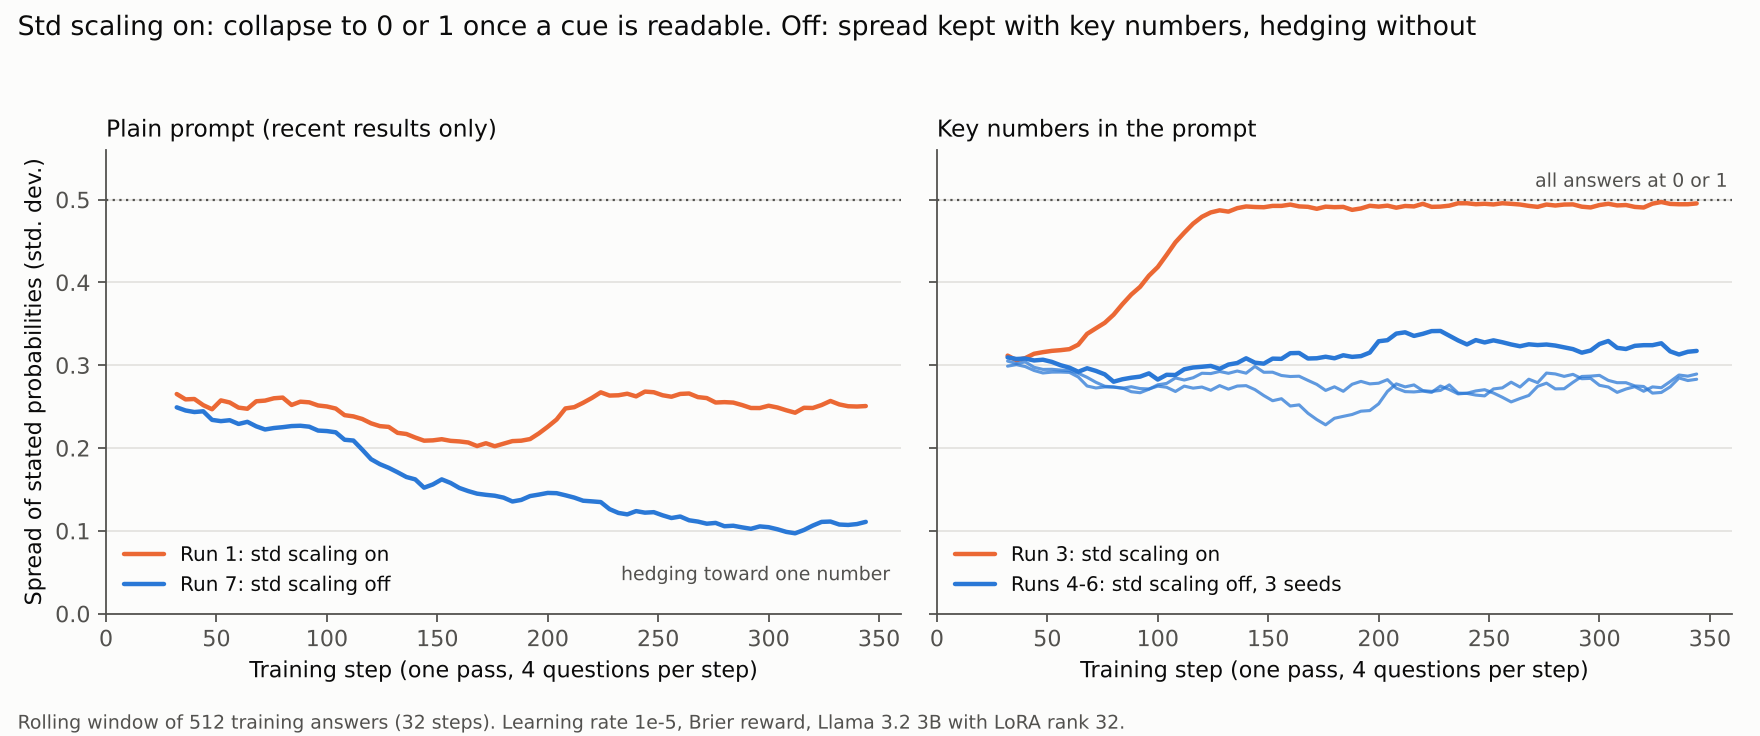
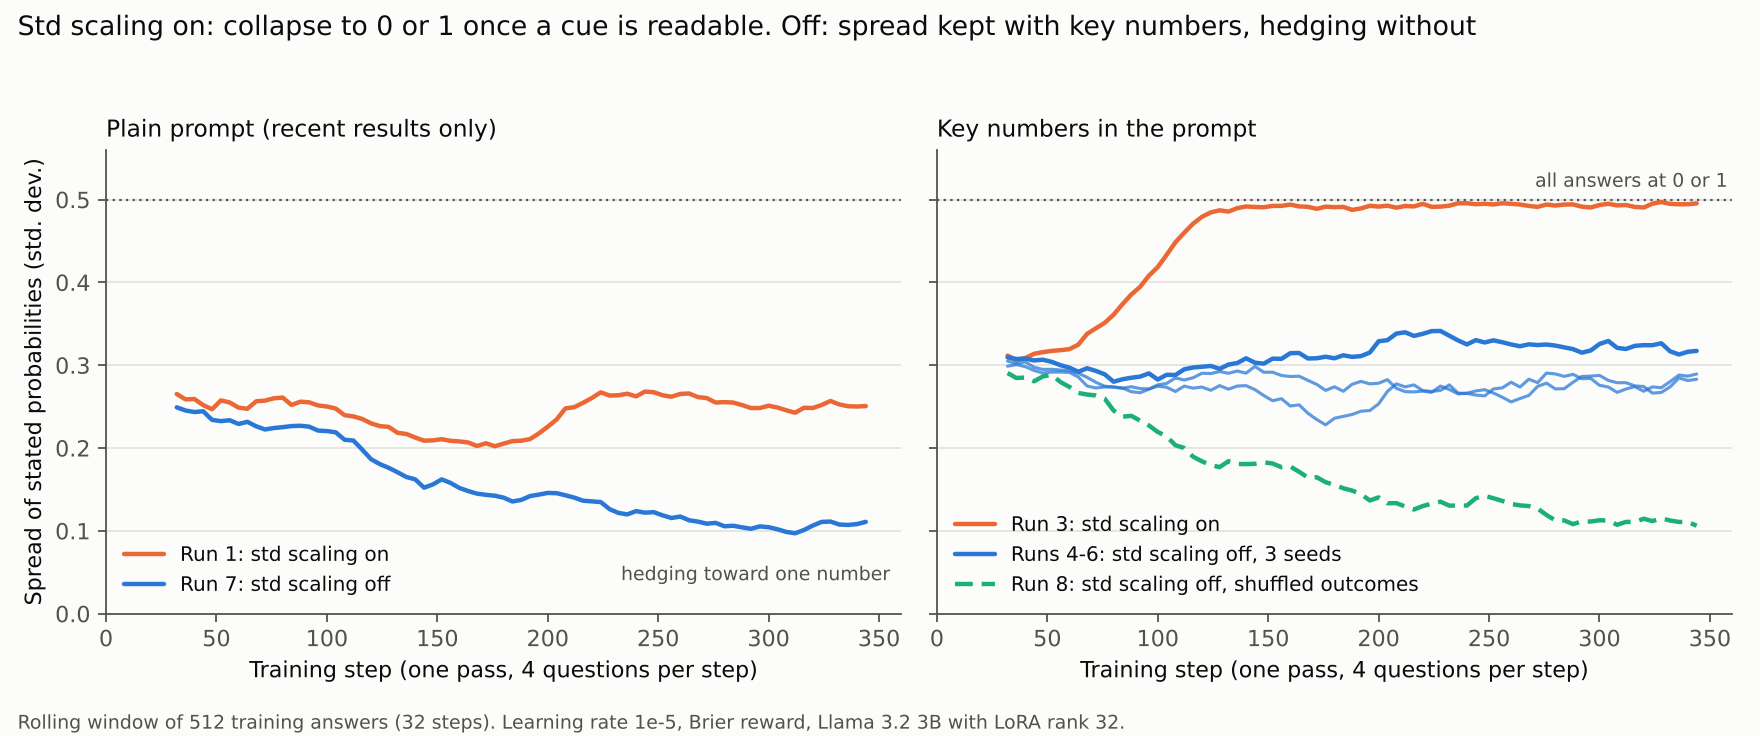
Runs 5-8 (seeds, 2x2, shuffled control) and prompt ablation notebook

diff --git a/eval/analysis/plot_spread_2x2.py b/eval/analysis/plot_spread_2x2.py
@@ -5,8 +5,8 @@ Spread = standard deviation of the stated probabilities over a rolling window of
 answers. A model that answers only 0 or 1 on balanced questions has spread 0.5; one that hedges
 toward a single number has spread near 0.
 
-Usage: python eval/analysis/plot_spread_2x2.py <run1> <run7> <run3> <run4> <run5> <run6> <out_dir>
-(each argument is that run's train_answers CSV). Writes eval/figures/spread_2x2.png and
+Usage: python eval/analysis/plot_spread_2x2.py <run1> <run7> <run3> <run4> <run5> <run6> [<run8>] <out_dir>
+(each argument is that run's train_answers CSV; run 8, the shuffled-outcome control, is optional). Writes eval/figures/spread_2x2.png and
 <out_dir>/spread_2x2.csv.
 """
 import os
@@ -20,7 +20,7 @@ import pandas as pd  # noqa: E402
 
 WINDOW, EVERY, PER_STEP = 512, 64, 16
 INK, MUTED, GRID, SURFACE = "#0b0b0b", "#52514e", "#e4e3df", "#fcfcfb"
-ON, OFF = "#eb6834", "#2a78d6"          # std scaling on / off
+ON, OFF, CONTROL = "#eb6834", "#2a78d6", "#1baf7a"   # std scaling on / off / shuffled-outcome control
 
 
 def rolling_sd(path):
@@ -34,7 +34,7 @@ def rolling_sd(path):
 
 
 def main(paths, out_dir):
-    names = ["Run 1", "Run 7", "Run 3", "Run 4", "Run 5", "Run 6"]
+    names = ["Run 1", "Run 7", "Run 3", "Run 4", "Run 5", "Run 6", "Run 8"][:len(paths)]
     data = pd.concat([rolling_sd(p).assign(run=n) for p, n in zip(paths, names)], ignore_index=True)
     data.to_csv(os.path.join(out_dir, "spread_2x2.csv"), index=False)
 
@@ -45,7 +45,8 @@ def main(paths, out_dir):
                                                       ("Run 7", OFF, "Run 7: std scaling off")]),
               ("Key numbers in the prompt", [("Run 3", ON, "Run 3: std scaling on"),
                                              ("Run 4", OFF, "Runs 4-6: std scaling off, 3 seeds"),
-                                             ("Run 5", OFF, None), ("Run 6", OFF, None)])]
+                                             ("Run 5", OFF, None), ("Run 6", OFF, None)]
+               + ([("Run 8", CONTROL, "Run 8: std scaling off, shuffled outcomes")] if "Run 8" in names else []))]
     for ax, (title, lines) in zip(axes, panels):
         ax.set_facecolor(SURFACE)
         ax.grid(axis="y", color=GRID, lw=0.8)
@@ -56,7 +57,7 @@ def main(paths, out_dir):
         for run, color, label in lines:
             d = data[data["run"] == run]
             ax.plot(d["step"], d["sd"], color=color, lw=2 if label else 1.4, alpha=1 if label else 0.75,
-                    label=label, solid_capstyle="round")
+                    label=label, solid_capstyle="round", ls=(0, (4, 2)) if run == "Run 8" else "-")
         ax.set_title(title, loc="left", fontsize=10.5, color=INK)
         ax.set_xlabel("Training step (one pass, 4 questions per step)")
         ax.set_xlim(0, 360)

diff --git a/eval/rl_run8.md b/eval/rl_run8.md
@@ -1,0 +1,37 @@
+# Run 8: shuffled-outcome control
+
+Run 8 repeats run 4 exactly (key numbers in the prompt, GRPO std scaling off, training seed 3407, one pass at learning rate 1e-5), except that each training question's outcome is randomly reassigned across the training set before rewards are computed (`SHUFFLE_OUTCOMES = True`). The yes-rate stays the same (0.491), but the link between a question and its outcome is gone: 48.4% of rewards happen to use the real outcome, about what chance gives. Run name `3b_brier_keynum_nostd_shuffled`, repo commit 0f576a3, 124 minutes of training. Evaluation uses the real outcomes, as always.
+
+The question it answers: **how much of what RL did in runs 4 to 6 comes from the outcomes, and how much from the training process alone?**
+
+## Result
+
+The training process alone makes the model worse. Without a real signal, RL squeezes the forecasts toward a single number: the same hedging as run 7, where the outcomes were real but the model could not read its evidence.
+
+| Validation econ (410 questions) | Brier | AUC | Calibration error | Average forecast | Spread (std. dev.) |
+| --- | --- | --- | --- | --- | --- |
+| Untrained, key numbers | 0.201 | 0.757 | 0.060 | 0.482 | 0.244 |
+| Run 4 (real outcomes, same seed) | 0.169 | 0.828 | 0.063 | 0.472 | 0.319 |
+| **Run 8 (shuffled outcomes)** | **0.236** | **0.708** | 0.113 | 0.538 | **0.074** |
+
+Paired comparisons, event-level bootstrap with 4,000 draws (`analysis/run8_paired_bootstrap.csv`):
+
+| Comparison | Eval set | Brier change | AUC change |
+| --- | --- | --- | --- |
+| Run 8 vs untrained (key numbers) | Econ | **+0.035** (+0.007 to +0.059) | −0.048 (−0.100 to +0.003) |
+| Run 8 vs run 4 | Econ | **+0.067** (+0.028 to +0.104) | **−0.120** (−0.172 to −0.075) |
+| Run 8 vs untrained (key numbers) | Weather | 0.000 (−0.016 to +0.017) | +0.037 (−0.027 to +0.097) |
+
+Bold: interval excludes 0.
+
+- On validation econ, every run 8 forecast lies between 0.32 and 0.81, and 39% lie between 0.45 and 0.55 (untrained: 14%; run 4: 5%).
+- During training, the spread of stated probabilities fell from 0.29 to 0.11 (dashed line in the figure below). Runs 4 to 6 held theirs near 0.3.
+- The ordering partly survives the squeeze (AUC 0.71), because the prompt still carries the key numbers. RL just stops acting on them.
+
+![Spread of stated probabilities during training, with the shuffled-outcome control](figures/spread_2x2.png)
+
+## What it means
+
+- **Runs 4 to 6 improved because of the outcomes**, not because training itself sharpens or reformats answers. The same setup with the signal removed lost 0.035 Brier instead of gaining 0.031.
+- **Run 7's hedging looks like the no-signal case.** With real outcomes but no readable evidence (run 7), and with readable evidence but no real outcomes (run 8), RL does the same thing: it moves toward one number, the proper-score optimum for a forecaster whose answers carry no usable information.
+- **It also rules out a format or length effect.** Run 8's answers keep their reasoning (median 90 tokens) and are all readable, like runs 4 to 6, so the difference between them is the forecasts themselves.

diff --git a/eval/rl_runs5to7.md b/eval/rl_runs5to7.md
@@ -20,7 +20,7 @@ Cells show Brier / AUC. Only the bottom-right cell improves on its untrained mod
 
 ![Spread of stated probabilities during training, 2 × 2](figures/spread_2x2.png)
 
-The figure shows the same four outcomes during training. With std scaling, run 3's spread rises to 0.5, every answer at 0 or 1. Without it, runs 4 to 6 keep a spread near 0.3 when the evidence is readable, and run 7 hedges (spread 0.25 to 0.11) when it is not.
+The figure shows the same four outcomes during training (plus run 8, the shuffled-outcome control, dashed). With std scaling, run 3's spread rises to 0.5, every answer at 0 or 1. Without it, runs 4 to 6 keep a spread near 0.3 when the evidence is readable, and run 7 hedges (spread 0.25 to 0.11) when it is not.
 
 ## Validation econ: every method on the same 410 questions
 
@@ -80,4 +80,4 @@ All three seeds improve on the untrained model for core CPI (both), CPI year-ove
 
 The paper's central claim now has every cell of the 2 × 2 and three seeds behind it: **RL with a Brier reward improved this 3B model's forecasts only when the evidence was legible and GRPO's advantages were not divided by the group's standard deviation.** With legible evidence and std scaling, it collapsed onto a lookup rule. Without legible evidence, it shifted (std scaling on) or hedged (off). The improved model reaches, but does not pass, a logistic regression on the same evidence.
 
-Remaining runs: the shuffled-outcome control (run 8), the prompt ablation, two more seeds of run 3's collapse (runs 9 and 10), then one evaluation of the final settings on the untouched test split.
+The shuffled-outcome control (run 8, `rl_run8.md`) shows the gain comes from the outcomes: with them shuffled, the same setup gets worse (Brier +0.035) and hedges like run 7. Remaining: the prompt ablation, two more seeds of run 3's collapse (runs 9 and 10), then one evaluation of the final settings on the untouched test split.

diff --git a/README.md b/README.md
@@ -25,7 +25,7 @@ Training a small open language model with reinforcement learning (GRPO) to give 
 - [x] Phase 0: setup and GRPO smoke test on Kaggle (20 steps, plus checkpoint resume)
 - [x] Phase 1: Kalshi data pipeline (14,662 markets, 10 series), context snapshots, leakage audit, date-based splits
 - [x] Phase 2: forecasting environment, baselines and leak probe (`eval/baselines.md`)
-- [ ] Phase 3: GRPO training and reward-hacking log. Runs 1-7 done (`eval/rl_run1.md`, `eval/rl_run2_run3.md`, `eval/rl_run4.md`, `eval/rl_runs5to7.md`): the full prompt × std-scaling 2 × 2 and three seeds of the main setup; 5 entries in `writeup/hacks.md`; next: shuffled-outcome control, prompt ablation, two more seeds of the collapse
+- [ ] Phase 3: GRPO training and reward-hacking log. Runs 1-7 done (`eval/rl_run1.md`, `eval/rl_run2_run3.md`, `eval/rl_run4.md`, `eval/rl_runs5to7.md`): the full prompt × std-scaling 2 × 2 and three seeds of the main setup; 5 entries in `writeup/hacks.md`; shuffled-outcome control (run 8, `eval/rl_run8.md`); next: prompt ablation, two more seeds of the collapse
 - [ ] Phase 4: generalization tests and ablations
 - [ ] Phase 5: write-up
 

diff --git a/eval/README.md b/eval/README.md
@@ -9,6 +9,7 @@ Results so far:
 - `rl_run2_run3.md`: runs 2 and 3, the key-numbers prompt, overconfidence and the collapse onto a lookup rule
 - `rl_run4.md`: run 4, GRPO without std scaling: no collapse, better ordering at unchanged calibration
 - `rl_runs5to7.md`: three seeds of the main setup and the full 2 × 2 (prompt × std scaling)
+- `rl_run8.md`: shuffled-outcome control: without a real signal, RL makes the model worse and hedges
 - `analysis/`: the scripts and tables behind them; `figures/`: the plots
 
 Baselines compared in every run: the market price at question time, each series' base rate, always 0.5, and the model with and without context (first answer, and the average of 4).
